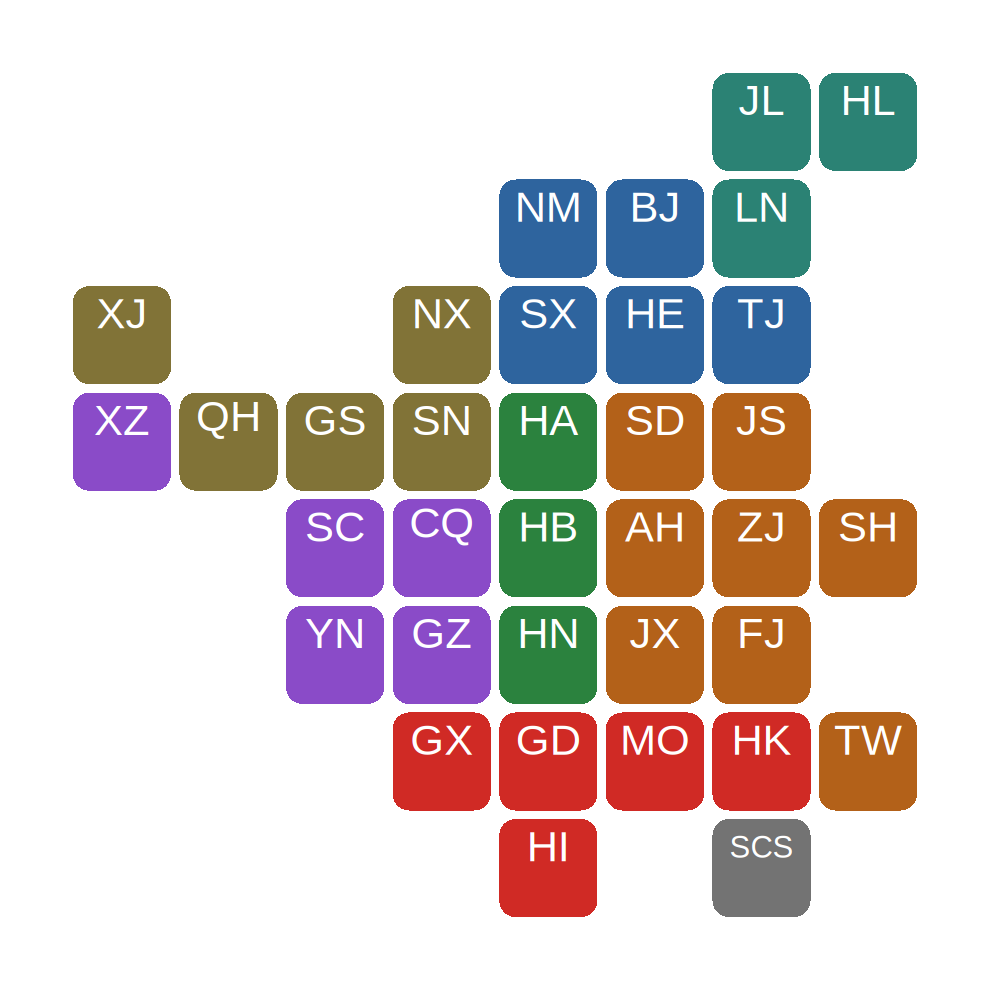
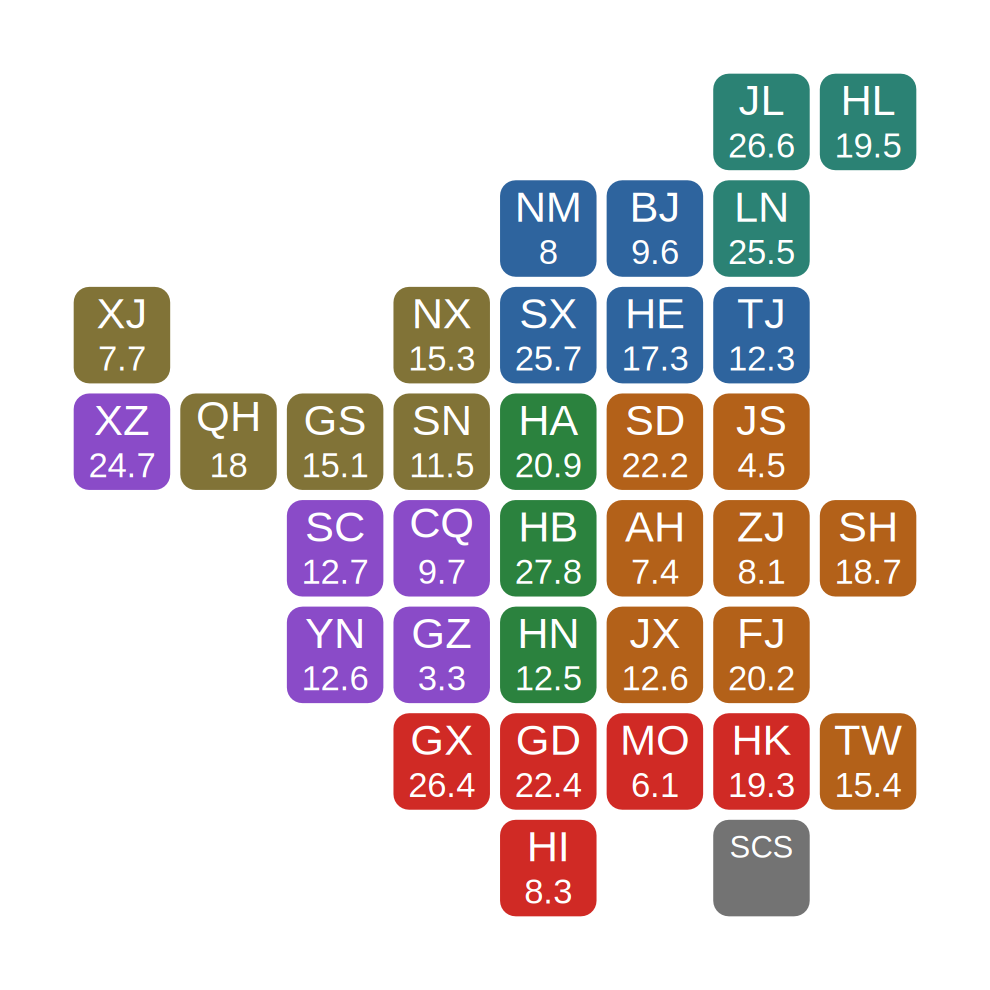
README: show Chinese and English examples with values on the tiles
Both README figures now print a value under each province name, and the page
shows the Chinese and the English (ISO 3166-2:CN) versions side by side.  The
snippets reproduce the figures exactly, and the CJK-font note now points at
name_type = "en" as the alternative.

diff --git a/README.md b/README.md
@@ -11,7 +11,14 @@ so the tiles keep their geographic relationships (mean error 268 km, max
 visual weight. That makes the maps well suited to rates, indices and
 categorical groupings, and it lets values be printed straight onto the tiles.
 
-![A tile-grid map of China's province-level units](man/figures/README-example.png)
+Chinese labels, with a value under each name:
+
+![A tile-grid map of China's province-level units, with values printed under the names](man/figures/README-example.png)
+
+The same map using English ISO 3166-2:CN codes (`name_type = "en"`), for
+figures that should not depend on a CJK font:
+
+![The same map with English ISO codes instead of Chinese characters](man/figures/README-english.png)
 
 ## Installation
 
@@ -32,30 +39,21 @@ library(pxCNmap)
 ## one colour per broad region, in CN_TILE_ORDER
 region <- rep(c("#2E649E", "#2B8274", "#B36119", "#2B823E",
                 "#D02A25", "#8A4BC8", "#817337"), length.out = 34)
+fills  <- setNames(region, CN_TILE_ORDER)
 
-tile_map_cn(region, label_colors = "white")
-
-## write a figure straight to a file
-tile_map_cn(region, file = "china_tile_map.png", width = 6.6, height = 6.6, res = 300)
-```
-
-Values can be printed under each name, and the tiles can carry an outline:
-
-```r
-fills <- setNames(region, CN_TILE_ORDER)
-values <- round(seq(3, 28, length.out = 34), 1)
+## a value for each unit, printed under its name
+set.seed(1)
+values <- setNames(round(runif(34, 3, 28), 1), CN_TILE_ORDER)
 
 tile_map_cn(fills, numbers = values,
+            label_colors = "white",
+            border_color = "white", border_size = 1)
+
+## or write the figure straight to a file
+tile_map_cn(fills, numbers = values,
+            label_colors = "white",
             border_color = "white", border_size = 1,
-            nz_label_size = 12, number_size = 11)
-```
-
-Full administrative names also fit, since longer labels are shrunk
-automatically:
-
-```r
-tile_map_cn(fills, name_type = "full", label_colors = "black",
-            label_size = 4, corner_radius = 0, border_color = "grey20")
+            file = "china_tile_map.png", width = 6.6, height = 6.6, res = 300)
 ```
 
 ### English labels
@@ -67,14 +65,32 @@ render the characters, or a machine without one installed — use
 `"SCS"`:
 
 ```r
-tile_map_cn(fills, name_type = "en", label_colors = "black",
-            border_color = "grey20")
+## the figure above, right, with numbers
+tile_map_cn(fills, name_type = "en", numbers = values,
+            label_colors = "white",
+            border_color = "white", border_size = 1)
 
 ## the codes and the layout line up
 data.frame(code = CN_TILE_EN, full = cn_tiles()$full[1:34])
 ```
 
-![The same map with English ISO codes instead of Chinese characters](man/figures/README-english.png)
+### Full administrative names
+
+Longer labels are shrunk automatically, so the full names also fit:
+
+```r
+tile_map_cn(fills, name_type = "full", label_colors = "black",
+            label_size = 4, corner_radius = 0, border_color = "grey20")
+```
+
+### When there are no numbers
+
+Without `numbers`, `name_position = "top"` still leaves a gap for one;
+`name_position = "auto"` centres the name in the tile instead:
+
+```r
+tile_map_cn(fills, name_position = "auto")
+```
 
 ### Useful arguments
 
@@ -90,26 +106,29 @@ data.frame(code = CN_TILE_EN, full = cn_tiles()$full[1:34])
 | `family` | font family; set a CJK font if your device does not fall back |
 | `file`, `width`, `height`, `res` | draw straight to a PNG |
 
-`cn_tiles()` returns the layout itself (short name, full name, grid row and
-column, and whether the row is the inset), and `CN_TILE_ORDER` gives the order
-of the 34 units:
+`cn_tiles()` returns the layout itself — short name, English abbreviation,
+full name, grid row and column, and whether the row is the inset — and
+`CN_TILE_ORDER` / `CN_TILE_EN` give the two label vectors in tile order:
 
 ```r
 cn_tiles()
 CN_TILE_ORDER
+CN_TILE_EN
 ```
 
 ## Note on CJK fonts
 
-The labels are Chinese characters. Most devices find a CJK font automatically;
-if yours does not, pass one explicitly, for example
+The default labels are Chinese characters. Most devices find a CJK font
+automatically; if yours does not, pass one explicitly, for example
 `family = "WenQuanYi Zen Hei"` on Linux or `family = "SimHei"` on Windows.
+Alternatively use `name_type = "en"`, which needs no CJK font at all.
 
 ## Repository layout
 
 `attic/` holds an earlier `ggplot2`-based implementation of the same map. It
 is not part of the package (it is listed in `.Rbuildignore`) and is kept only
-for reference.
+for reference. `data-raw/tiles.R` is the readable source of the tile layout:
+run it to regenerate `R/sysdata.rda` after changing positions or names.
 
 ## License
 
